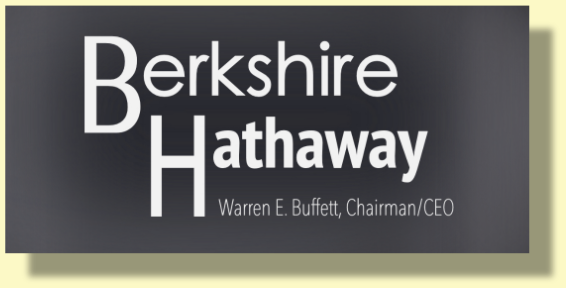
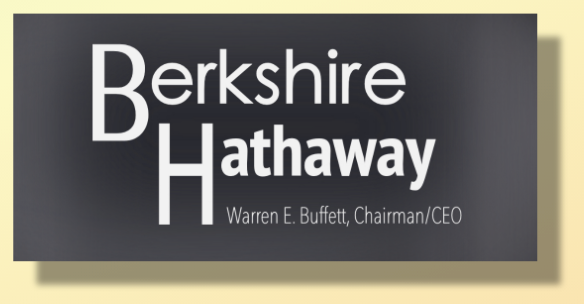
Image, content changes
Changed images and rewrote content in the graphic design skills and web dev gallery sections.

Changed region(s): [[0.0, 0.0, 0.9912, 0.9688], [0.1502, 0.125, 0.811, 0.75]]

diff --git a/portfolio-banks/style.css b/portfolio-banks/style.css
@@ -14,7 +14,7 @@ body {
     display: grid;
     grid-template-columns: repeat(2, 1fr);
     grid-auto-rows: minmax(10px, auto);
-    grid-gap: 1px;
+    grid-gap: 0.70px;
     max-width: 990px;
     min-width: 640px;
 }
@@ -91,14 +91,14 @@ header {
       padding-top: 2rem;
     }
 
-.mySkills {
+.myWebSkills {
   grid-column: 1 / 3;
   grid-row: 3;
   background-color: #C7FFF0;
 
   display: grid;
   grid-template-columns: repeat(2, 1fr);
-  grid-template-rows: repeat(2, 1fr);
+  grid-template-rows: 1fr;
   grid-gap: 0px;
 
   padding-bottom: 1.5em;
@@ -118,17 +118,33 @@ header {
     .webDevPicture {
       grid-column: 2 / 3;
       grid-row: 1;
-      width: 19em;
-      padding-top: 2.2em;
-      padding-left: 2em;
+      width: 20em;
+      padding-top: 1.5em;
+      padding-left: 0.5em;
     }
+
+.myGraphicSkills {
+  grid-column: 1 / 3;
+  grid-row: 4;
+  /**grid-row: 5;**/
+  background-color: #FDDBB8;
+
+  display: grid;
+  grid-template-columns: repeat(2, 1fr);
+  grid-template-rows: 1fr;
+  grid-gap: 0px;
+
+  padding-bottom: 1.5em;
+  padding-top: 1.5em;
+}
 
     .graphDesignPicture {
       grid-column: 1 / 2;
       grid-row: 2;
       width: 19em;
-      padding-top: 3.4em;
-      padding-left: 2em;
+      height: 16em;
+      padding-left: 1.5em;
+      width: 23em;
     }
 
     .graphDesignSkills {
@@ -137,14 +153,14 @@ header {
       font-family: 'Fjalla One', sans-serif;
       width: 19em;
       padding-left: 2em;
-      padding-top: 3.5em;
+      padding-top: 2em;
       color: #d42a02;
     }
 
 .webGallery {
   grid-column: 1 / 3;
   grid-row: 5;
-  background-color: #fcfac0;
+  background: linear-gradient(160deg, #dffff7, #94efd6, #fcfac0, #ff9555);
 
   display: grid;
   grid-template-columns: repeat(2, 1fr);
@@ -157,19 +173,24 @@ header {
     .galleryTop {
       grid-column: 1 / 3;
       grid-row: 1;
-      padding-left: 3rem;
-      padding-bottom: 1.6rem;
+      padding-left: 2rem;
+      padding-right: 2rem;
+      padding-bottom: 1rem;
     }
 
     .galleryTitle {
       font-family: 'Lato', sans-serif;
       color: #00716e;
+      font-size: 2.5rem;
+      text-align: center;
+      border-bottom: 0.05rem solid white;
     }
 
     .galleryDescription {
       width: 35em;
       font-family: 'Roboto', sans-serif;
       color: #003235;
+      padding-left: 1rem;
     }
 
     .cherylGitHub {
@@ -208,7 +229,7 @@ header {
 
     .craigslistGitHub {
       color: #005152;
-      font-size: 3rem;
+      font-size: 2rem;
     }
 
     .craigslistIntro {
@@ -216,24 +237,23 @@ header {
       grid-row: 2;
       width: 18em;
       padding-left: 1em;
-      padding-top: 0.5em;
+      padding-top: 1em;
     }
-
 
     .yellowLineIntro {
       grid-column: 1 / 3;
       grid-row: 3;
       width: 40em;
       padding-left: 3.25em;
-      padding-top: 4em;
+      padding-top: 2em;
+      border-bottom: 0.1rem solid white;
     }
-
 
     .matchingGameSkills {
       grid-column: 2 / 3;
       grid-row: 4;
       padding-left: 0.75em;
-      padding-top: 5.5em;
+      padding-top: 3em;
     }
 
     .matchingGameMini {
@@ -256,7 +276,7 @@ header {
 
     .matchingGameGitHub {
       color: #014634;
-      font-size: 3rem;
+      font-size: 2rem;
     }
 
     .matchingGameIntro {
@@ -264,7 +284,7 @@ header {
       grid-row: 4;
       width: 20em;
       padding-left: 2.5em;
-      padding-top: 3.5em;
+      padding-top: 2em;
     }
 
 
@@ -273,7 +293,8 @@ header {
       grid-row: 5;
       width: 40em;
       padding-left: 3.25em;
-      padding-top: 4em;
+      padding-top: 3.2em;
+      border-bottom: 0.1rem solid white;
     }
 
 
@@ -281,7 +302,7 @@ header {
       grid-column: 1 / 2;
       grid-row: 6;
       padding-left: 3em;
-      padding-top: 7em;
+      padding-top: 3em;
     }
 
     .berkshireHathawayMini {
@@ -296,7 +317,7 @@ header {
     }
 
     .twoBerkshireHathawayDescribe {
-      padding-top: 1.5em;
+      padding-top: 1em;
     }
 
     .linkBerkshireHathaway {
@@ -306,7 +327,7 @@ header {
 
     .berkshireHathawayGitHub {
       color: #634a4a;
-      font-size: 3rem;
+      font-size: 2rem;
     }
 
     .berkshireHathawayIntro {
@@ -314,7 +335,7 @@ header {
       grid-row: 6;
       width: 18em;
       padding-left: 1em;
-      padding-top: 3.9em;
+      padding-top: 3em;
     }
 
 
@@ -336,17 +357,21 @@ header {
       grid-row: 1;
       padding-left: 1.75rem;
       padding-bottom: 1.6rem;
+      padding-right: 1.75rem;
     }
 
     .graphicGalleryTitle {
       font-family: 'Lato', sans-serif;
-      color: #634a4a;
+      color: #e84a08;
+      font-size: 2.5rem;
+      text-align: center;
+      border-bottom: 0.05rem solid #e84a08;
     }
 
     .graphicGalleryDescription {
       width: 39em;
       font-family: 'Roboto', sans-serif;
-      color: #634a4a;
+      color: #0f8688;
     }
 
     .myDesignsGrid {
@@ -468,13 +493,24 @@ header {
     margin-left: auto;
   }
 
+  .graphDesignPicture {
+    width: 22em;
+    height: 17em;
+    padding-top: 0.5em;
+    padding-left: 1.5em;
+  }
+
+  .graphDesignSkills {
+    padding-top: 3em;
+  }
+
 }
 
 
 @media only screen and (max-width: 675px){
 
   .webDevPicture {
-    width: 17em;
+    width: 18em;
     padding-left: 1em;
   }
 
@@ -483,12 +519,14 @@ header {
   }
 
   .graphDesignPicture {
-    width: 18em;
+    width: 19em;
+    height: 15em;
+    padding-left: 0.5em;
   }
 
   .graphDesignSkills {
     font-size: 0.95rem;
-    padding-left: 1em;
+    padding-left: 1.5em;
   }
 
   .galleryTop {
@@ -500,7 +538,7 @@ header {
   }
 
   .craigslistIntro {
-    width: 14.5em;
+    width: 15.75em;
   }
 
   .craigslistDescribe {
@@ -510,10 +548,6 @@ header {
 
   .craigslistMini {
     width: 10em;
-  }
-
-  .yellowLineIntro {
-    width: 37em;
   }
 
   .matchingGameIntro {
@@ -531,14 +565,6 @@ header {
   .matchingGameDescribe {
     width: 16em;
     font-size: 0.9rem;
-  }
-
-  .yellowLineIntro2 {
-    width: 37em;
-  }
-
-  .berkshireHathawayMini {
-    width: 14em;
   }
 
   .berkshireHathawayIntro {

diff --git a/portfolio-banks/index.html b/portfolio-banks/index.html
@@ -74,17 +74,15 @@
 
         <div class="galleryTop">
 
-            <h3 class="galleryTitle">Web Dev Gallery</h3>
+            <p class="galleryTitle">Web Dev Gallery</p>
 
             <p class="galleryDescription">
               These are three of my recent web development projects.
-              I produced the logos, color schemes, layout, and code of each project.
-            </p>
-            <p class="galleryDescription">
-              Please take a moment for a closer look at each one.
-              Click on the thumbnail for each project provided
-              in the descriptions below.  You can also view my coding work on
+              My coding work is available on
               <a class="cherylGitHub" href="https://github.com/CB-1/CB-1.github.io">GitHub</a>.
+              Included are redesigns of existing landing pages for Craigslist
+              and Berkshire Hathaway.  Also included is a game based on JavaScript/jQuery.
+              I produced the logos, color schemes, layout, and code of each project.
             </p>
 
         </div>
@@ -116,11 +114,11 @@
 
           </div>
 
-          <img class="yellowLineIntro" src="images/yellow-line.png" alt="yellow line">
+          <a href="https://CB-1.github.io/craigslist-redesign/index.html">
+            <img class="craigslistIntro" src="images/craigslist-intro.png" alt="CraigsList">
+          </a>
 
-        <a href="https://CB-1.github.io/craigslist-redesign/index.html">
-          <img class="craigslistIntro" src="images/craigslist-intro.png" alt="CraigsList">
-        </a>
+          <p class="yellowLineIntro"></p>
 
           <div class="matchingGameSkills">
 
@@ -150,7 +148,7 @@
               <img class="matchingGameIntro" src="images/matching-game-intro.png" alt="Matching Game">
             </a>
 
-          <img class="yellowLineIntro2" src="images/yellow-line-2.png" alt="yellow line">
+        <p class="yellowLineIntro2"></p>
 
 
         <div class="berkshireHathawaySkills">
@@ -190,7 +188,7 @@
 
         <div class="graphicGalleryTop">
 
-            <h3 class="graphicGalleryTitle">Design Gallery</h3>
+            <p class="graphicGalleryTitle">Design Gallery</p>
 
             <p class="graphicGalleryDescription">
               This is a collection of visuals that I have created for freelance work and class projects.
